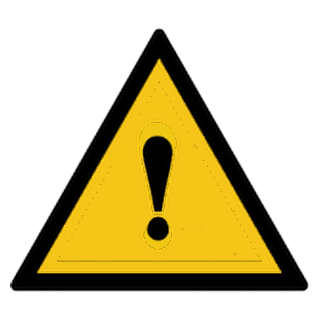
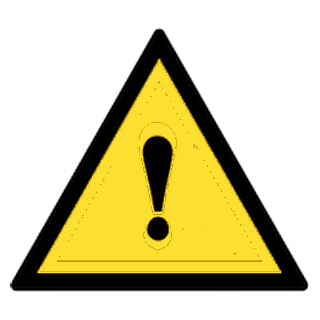
Advice yellow is the official AWS yellow #FBE032 (was #F5C518)
Owner, 16 Oct 2026: the Advice triangles looked dull. #FBE032 is sampled
from the national icons on australianwarningsystem.com.au and is already
the yellow in the supplied diamond artwork; only the generated AWS
triangles and the app's own drawn yellow (keys, bars, bubbles, headers)
used #F5C518. Backend template default and tests follow.

Claude-Session: https://claude.ai/code/session_01QF4nocZovkMmhF1LsZTTdj

Changed region(s): [[0.125, 0.1875, 0.875, 0.875]]

diff --git a/admin/src/test/AlertTemplatesPage.test.tsx b/admin/src/test/AlertTemplatesPage.test.tsx
@@ -9,7 +9,7 @@ const mocks=vi.hoisted(()=>({get:vi.fn(),save:vi.fn(),preview:vi.fn(),write:true
 vi.mock('../auth/AuthContext',()=>({useAuth:()=>({hasRole:()=>mocks.write})}));
 vi.mock('../api/alertTemplates',async(importOriginal)=>({...await importOriginal<typeof import('../api/alertTemplates')>(),getAlertTemplates:mocks.get,saveAlertTemplates:mocks.save,previewAlertTemplate:mocks.preview}));
 vi.mock('../api/resources',()=>({listAIPrompts:async()=>[],listCategories:async()=>[{id:'smoke',name:'Smoke',parentId:null,color:'#FF7E29',images:[],subCategories:[]}]}));
-const pack=():TemplatePack=>({defaults:{language:'en-AU',promptId:null,additionalInstructions:'Extract source facts.',bandColors:{info:'#8A93A0',monitor:'#F5C518',action:'#F07E1B',critical:'#DA1F2D'},nativeLevelMappings:[],iconCategoryId:null,allowAgencyNumbers:false},overrides:[{id:'nz',name:'New Zealand',country:'NZ',sourceId:null,settings:{language:'en-NZ'}},{id:'agency',name:'Agency detail',country:null,sourceId:'agency',settings:{additionalInstructions:'Keep road names.'}}],library:[]});
+const pack=():TemplatePack=>({defaults:{language:'en-AU',promptId:null,additionalInstructions:'Extract source facts.',bandColors:{info:'#8A93A0',monitor:'#FBE032',action:'#F07E1B',critical:'#DA1F2D'},nativeLevelMappings:[],iconCategoryId:null,allowAgencyNumbers:false},overrides:[{id:'nz',name:'New Zealand',country:'NZ',sourceId:null,settings:{language:'en-NZ'}},{id:'agency',name:'Agency detail',country:null,sourceId:'agency',settings:{additionalInstructions:'Keep road names.'}}],library:[]});
 const sources=[{id:'agency',name:'Example agency',country:'NZ',sourceType:null,severitySystem:null}];
 const state=()=>({revision:1,draft:pack(),published:null,history:[]});
 beforeEach(()=>{vi.clearAllMocks();mocks.write=true;mocks.get.mockResolvedValue({state:state(),sources});mocks.save.mockResolvedValue({...state(),revision:2});});

diff --git a/frontend/lib/others/app_colors.dart b/frontend/lib/others/app_colors.dart
@@ -57,13 +57,13 @@ class AppColors {
   static const searchGlow = Color(0xFFFF6B01);
 
   // The locked band hexes (product rules, design system): Info #8A93A0,
-  // Monitor #F5C518, Action #F07E1B, Critical #DA1F2D. These four aliases
+  // Monitor #FBE032, Action #F07E1B, Critical #DA1F2D. These four aliases
   // are how severity is coloured everywhere: pins, clusters, cards, app
   // bars, filters and both keys. They used to point at the generic
   // yellow/orange/red above, which predate the locked palette, so the map
   // and the Map details legend disagreed about the same alert.
   static const info = Color(0xFF8A93A0);
-  static const advice = Color(0xFFF5C518);
+  static const advice = Color(0xFFFBE032);
   static const watchAndAct = Color(0xFFF07E1B);
   static const emergency = Color(0xFFDA1F2D);
 }

diff --git a/backend/src/utils/alert_templates.util.ts b/backend/src/utils/alert_templates.util.ts
@@ -140,7 +140,7 @@ export const defaultTemplatePack = (): TemplatePack => ({
       "Extract 2-3 concise facts supported by the agency source. Retain the affected area, original warning level and all essential official instructions. Do not invent missing facts. ALRT suggestions and For You guidance come from the approved library.",
     bandColors: {
       info: "#8A93A0",
-      monitor: "#F5C518",
+      monitor: "#FBE032",
       action: "#F07E1B",
       critical: "#DA1F2D",
     },

diff --git a/frontend/test/band_colour_lock_test.dart b/frontend/test/band_colour_lock_test.dart
@@ -12,7 +12,7 @@ import 'package:hazard_app/others/app_colors.dart';
 /// AppColors, and this test is what stops a second set growing back.
 void main() {
   const info = Color(0xFF8A93A0);
-  const monitor = Color(0xFFF5C518);
+  const monitor = Color(0xFFFBE032);
   const action = Color(0xFFF07E1B);
   const critical = Color(0xFFDA1F2D);
 

diff --git a/frontend/CLAUDE.md b/frontend/CLAUDE.md
@@ -5,7 +5,12 @@ explicit instruction from the product owner in the current session.
 
 ## Design system
 
-- Band colours: Info #8A93A0, Monitor #F5C518, Action #F07E1B, Critical #DA1F2D.
+- Band colours: Info #8A93A0, Monitor #FBE032, Action #F07E1B, Critical #DA1F2D.
+  Monitor was #F5C518 until 16 Oct 2026 (owner: the Advice triangles looked
+  dull); #FBE032 is the yellow sampled from the official AWS icons on
+  australianwarningsystem.com.au and already used by the supplied diamond
+  artwork. Orange and red stay as locked (the national icons sample as
+  #FF7900 and #D6001C; not changed, owner asked about yellow only).
 - Shapes carry the SOURCE system: AWS triangle, official diamond, current
   community disc artwork, ALRT shield. The square is retired (product-owner
   instruction, confirmed 13 October 2026). Humanitarian events use a diamond
